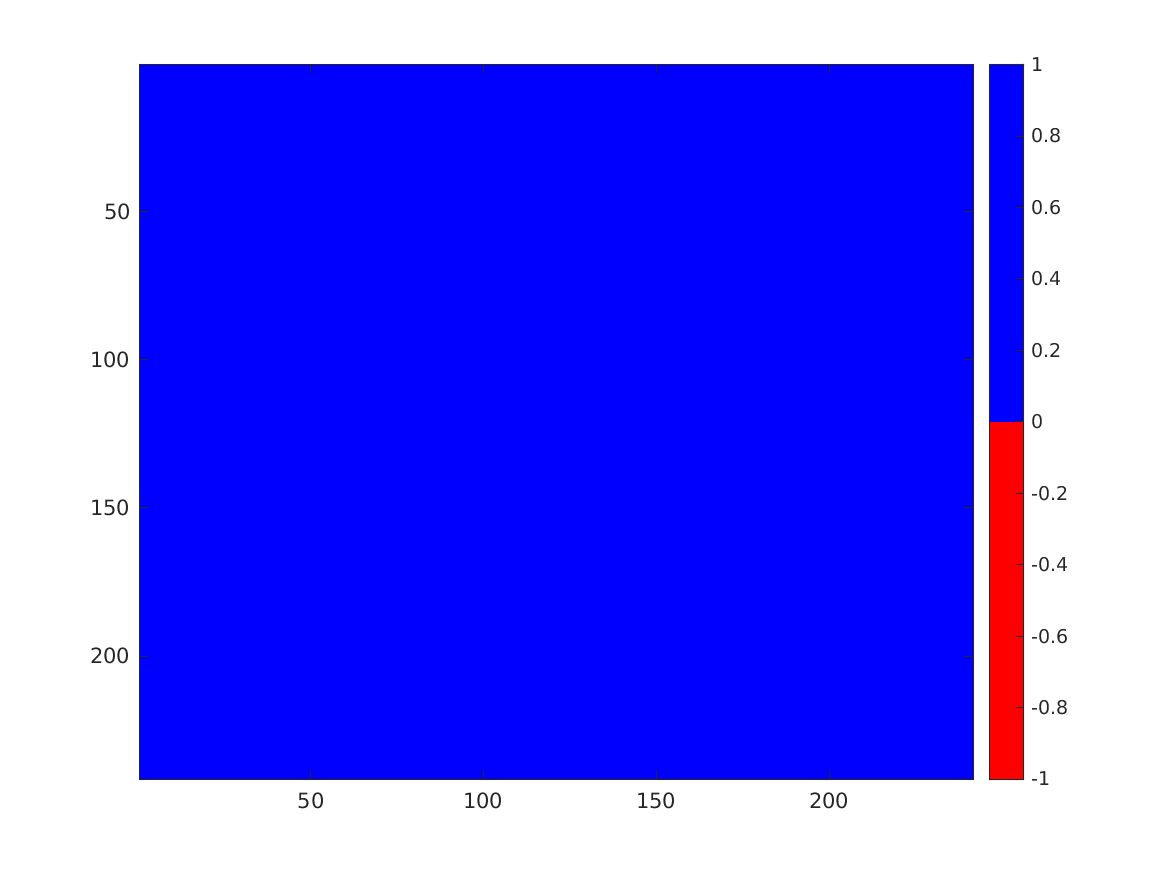
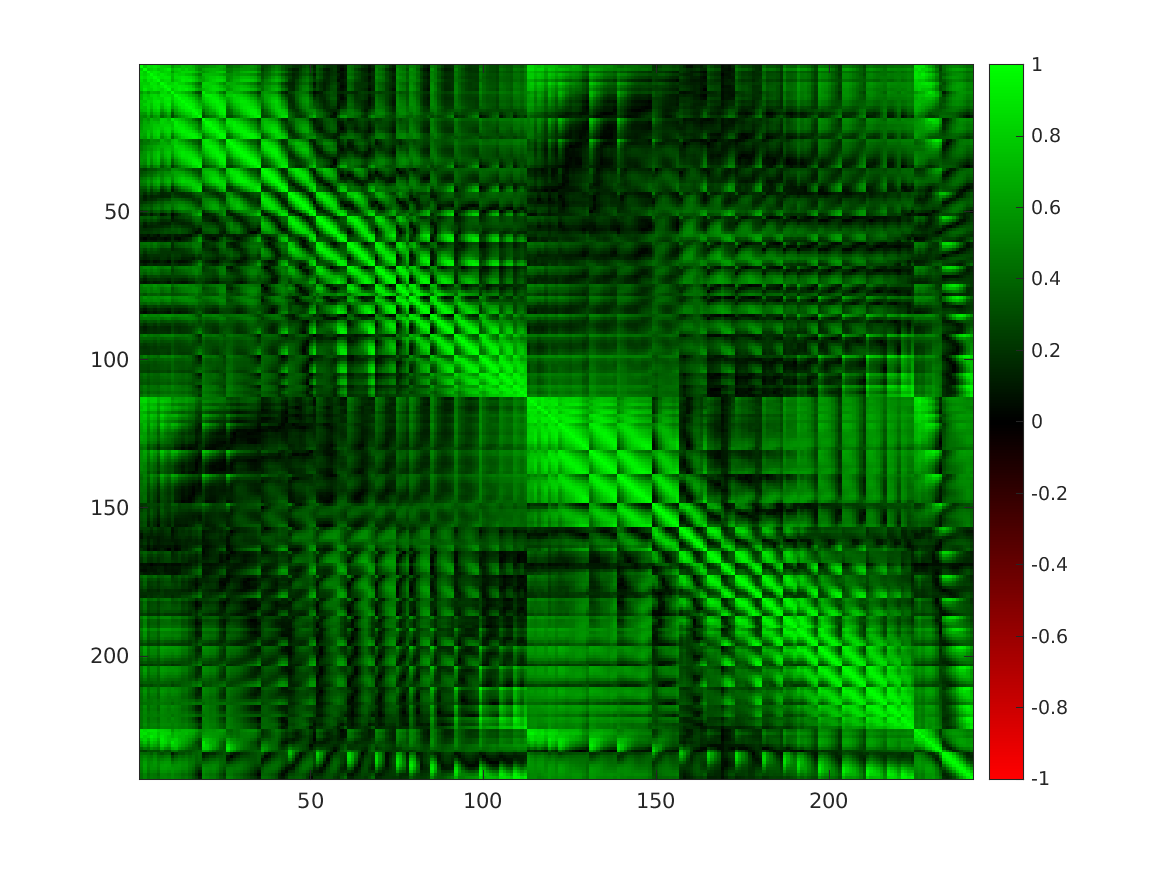
test

diff --git a/matlab/testing.m b/matlab/testing.m
@@ -108,8 +108,12 @@ size_sptrm = size(mtmfft_stats.cohspctrm);
 lims = [-1,1]
 
 imagesc(mtmfft_stats.cohspctrm(:,:,1), lims);
-myColorMap = [1 0 0;
-              0 0 1];
+
+red = [linspace(1,0,128), zeros(1, 128)];
+blue = [zeros(1, 128), linspace(0,1,128)];
+green = [zeros(1,256)];
+
+myColorMap = [red;blue;green]';
 
 colormap(myColorMap);
 colorbar;
